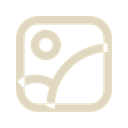
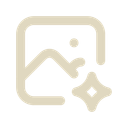
fix: 统一 NPC 回复操作图标与许可

diff --git a/THIRD_PARTY_NOTICES.md b/THIRD_PARTY_NOTICES.md
@@ -49,8 +49,28 @@ Steamworks.NET、Redzen 等程序集，项目文件将这些引用设为 `Privat
 这些文件不是仓库内容，也不在 Mod 发布包白名单内；构建者需自行合法安装游戏。
 相关程序集及游戏资产适用各自权利人的许可，不受本仓库 MIT 许可覆盖。
 
-## Iconfont 回复操作图标
+## Tabler Icons 回复操作图标
 
-`deploy/round-actions/voice.png`、`image.png`、`retry.png`、`delete.png` 分别由用户提供的 `user_renyuanshuohua_people-speak.svg`、`tuxiang.svg`、`shuaxin.svg`、`shanchu.svg` 转换而来，原始图标来源为 https://www.iconfont.cn/ 。转换时仅统一暖米白色、可见尺寸和透明画布。
+`deploy/round-actions/voice.png`、`image.png`、`retry.png`、`delete.png` 分别由 Tabler Icons 的 `volume`、`photo-spark`、`refresh`、`message-circle-x` SVG 转换而来。来源：https://github.com/tabler/tabler-icons ，许可原文见 https://raw.githubusercontent.com/tabler/tabler-icons/main/LICENSE 。转换时仅统一暖米白色、可见尺寸和透明画布。
 
-用户说明这些图标可免费使用。SVG 文件未包含作者、原始条目链接或许可证文本，因此这里不推定其采用 MIT、公共领域或其他具体许可；公开发布前仍需补充核对对应条目的许可与署名要求。
+> MIT License
+>
+> Copyright (c) 2020-2026 Paweł Kuna
+>
+> Permission is hereby granted, free of charge, to any person obtaining a copy
+> of this software and associated documentation files (the "Software"), to deal
+> in the Software without restriction, including without limitation the rights
+> to use, copy, modify, merge, publish, distribute, sublicense, and/or sell
+> copies of the Software, and to permit persons to whom the Software is
+> furnished to do so, subject to the following conditions:
+>
+> The above copyright notice and this permission notice shall be included in all
+> copies or substantial portions of the Software.
+>
+> THE SOFTWARE IS PROVIDED "AS IS", WITHOUT WARRANTY OF ANY KIND, EXPRESS OR
+> IMPLIED, INCLUDING BUT NOT LIMITED TO THE WARRANTIES OF MERCHANTABILITY,
+> FITNESS FOR A PARTICULAR PURPOSE AND NONINFRINGEMENT. IN NO EVENT SHALL THE
+> AUTHORS OR COPYRIGHT HOLDERS BE LIABLE FOR ANY CLAIM, DAMAGES OR OTHER
+> LIABILITY, WHETHER IN AN ACTION OF CONTRACT, TORT OR OTHERWISE, ARISING FROM,
+> OUT OF OR IN CONNECTION WITH THE SOFTWARE OR THE USE OR OTHER DEALINGS IN THE
+> SOFTWARE.
